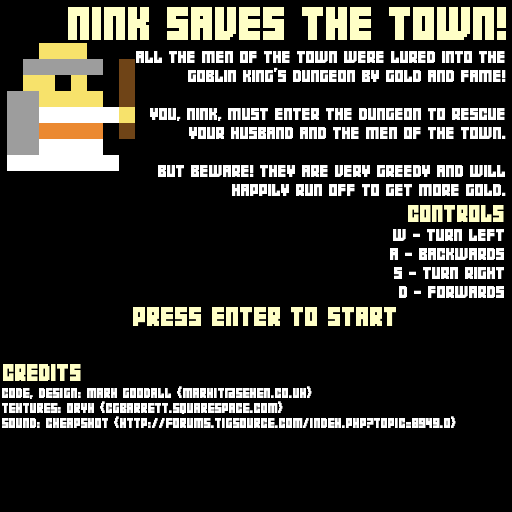
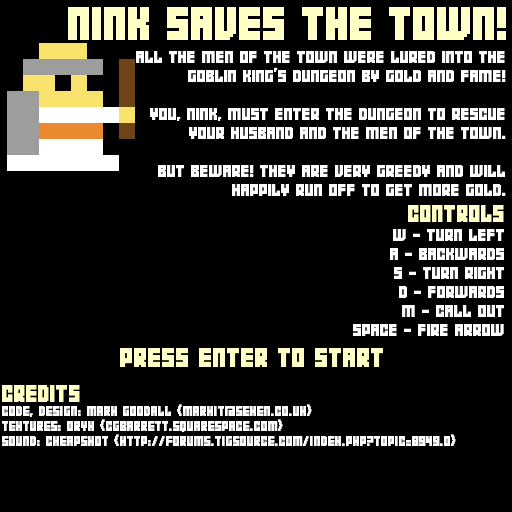
Updated controls, todo, repulsor bug, runspeed

Changed region(s): [[0.0, 0.6875, 0.9062, 0.875], [0.2188, 0.5938, 1.0, 0.7188]]

diff --git a/app.py b/app.py
@@ -82,6 +82,7 @@ class Application(pyglet.window.Window):
 		self.goblin_death_sound = pyglet.media.StaticSource(pyglet.media.load('sound/goblin_death.wav'))
 		self.follow_sound = pyglet.media.StaticSource(pyglet.media.load('sound/follow.wav'))
 		
+		self.scale = 96/2
 		self.time = 0
 		self.game = 0
 		self.camera = Matrix()
@@ -169,7 +170,7 @@ class Application(pyglet.window.Window):
 		# Datapoints
 		points = csv.reader(open('map/'+map_name+'.txt', 'rb'), delimiter=',')
 		for row in points:
-			point = ((float(row[1])/mapimg.width * 96*2) - 96, (float(row[2])/mapimg.width * 96*2) - 96)
+			point = (((float(row[1])+0.5)/mapimg.width * self.scale*2) - self.scale, ((float(row[2])-0.5)/mapimg.width * self.scale*2) - self.scale)
 			if row[0] == 'start':
 				self.start_point = Vector(point[0], 0, point[1])
 				self.player = self.create_protagonist(self.walls.collisionMap, point)
@@ -219,7 +220,7 @@ class Application(pyglet.window.Window):
 		ttex = Texture(tiles.width, tiles.height, unit=GL_TEXTURE1, data=tiles.get_data('RGBA', tiles.width*4))
 		tdim = Vector(tiles.width/8, tiles.height/8, 64-8)
 		
-		g = Ground(gtex, ttex, tdim, Vector(gmap.width, gmap.height, 0), Vector(-96, -96, 0), Vector(96, 96, 0))
+		g = Ground(gtex, ttex, tdim, Vector(gmap.width, gmap.height, 0), Vector(-self.scale, -self.scale, 0), Vector(self.scale, self.scale, 0))
 		return g
 		
 	def create_walls(self, mapimg):
@@ -229,7 +230,7 @@ class Application(pyglet.window.Window):
 		ttex = Texture(tiles.width, tiles.height, unit=GL_TEXTURE1, data=tiles.get_data('RGBA', tiles.width*4))
 		tdim = Vector(tiles.width/8, tiles.height/8, 64-8)
 		
-		w = Walls(gtex, ttex, tdim, Vector(gmap.width, gmap.height, 0), Vector(-96, -96, 0), Vector(96, 96, 0))
+		w = Walls(gtex, ttex, tdim, Vector(gmap.width, gmap.height, 0), Vector(-self.scale, -self.scale, 0), Vector(self.scale, self.scale, 0))
 		return w
 		
 	def create_protagonist(self, collisionMap, position):
@@ -264,16 +265,13 @@ class Application(pyglet.window.Window):
 				if not i.update(delta, self):
 					arrow_delete.append(i)
 			
-			for i in arrow_delete:
-				self.arrows.remove(i)
+			map(self.arrows.remove, arrow_delete)
 			
 			# Update friends
-			for i in self.friendly:
-				i.update(delta, self)
+			map(lambda i : i.update(delta, self), self.friendly)
 				
 			# Update enemy
-			for i in self.enemy:
-				i.update(delta, self)
+			map(lambda i : i.update(delta, self), self.enemy)
 				
 			# Collision Test
 			self.test_arrows()
@@ -322,10 +320,10 @@ class Application(pyglet.window.Window):
 					hit_arrows.append(a)
 					self.goblin_death_sound.play()
 					break
-		for i in hit_enemies:
-			self.enemy.remove(i)
-		for i in hit_arrows:
-			self.arrows.remove(i)
+		remove = self.enemy.remove
+		map(remove, hit_enemies)
+		remove = self.arrows.remove
+		map(remove, hit_arrows)
 	
 	def on_draw(self):
 		self.clear()
@@ -432,5 +430,5 @@ class Application(pyglet.window.Window):
 		return pyglet.event.EVENT_HANDLED
 
 if __name__ == '__main__':
-	window = Application('ground4')
+	window = Application('ground5')
 	pyglet.app.run()

diff --git a/friendly.py b/friendly.py
@@ -13,10 +13,12 @@ class Friendly(Protagonist):
 		self.pokeTimer-=delta
 		
 		# Repel away from other friends
-		for i in state.friendly:
-			distance = self.position - i.position
-			if distance.len() < 1.0:
-				self.position = self.position + (distance*0.1)
+		if (self.position - state.player.position).len() < 15:
+			for i in state.friendly:
+				distance = self.position - i.position
+				if distance.len() < 1.0:
+					if not self.collisionMap.collision(self.position + (distance*0.1), self.x/4):
+						self.position = self.position + (distance*0.1)
 		
 		uMoved = False
 		
@@ -35,30 +37,31 @@ class Friendly(Protagonist):
 					break
 					
 		# Kill the bad guys
-		for i in state.enemy:
-			distance = i.position - self.position
+		if (self.position - state.player.position).len() < 15:
+			for i in state.enemy:
+				distance = i.position - self.position
 			
-			if self.husband:
-				if distance.len() < 4.0 and self.within(state.player.position):
-					self.point(-distance.toAngle() + 0.25)
-					state.fire_arrow(self)
-					uMoved = True
-					break
-			else:
-				if distance.len() < 1.0:
-					self.point(-distance.toAngle() + 0.25)
-					state.fire_arrow(self)
-					uMoved = True
-					break
+				if self.husband:
+					if distance.len() < 4.0 and self.within(state.player.position):
+						self.point(-distance.toAngle() + 0.25)
+						state.fire_arrow(self)
+						uMoved = True
+						break
+				else:
+					if distance.len() < 1.0:
+						self.point(-distance.toAngle() + 0.25)
+						state.fire_arrow(self)
+						uMoved = True
+						break
 		
-		# Follow the girl
-		distance = state.player.position - self.position
-		if (not uMoved) and distance.len() < 5.0 and self.within(state.player.position):
-			# find the rotation between self and player
-			self.point(-distance.toAngle() + 0.25)
-			if distance.len() > 2.0:
-				self.move(Vector(2.0, 0, 0)*delta)
-		super(Friendly, self).update(delta, state)
+			# Follow the girl
+			distance = state.player.position - self.position
+			if (not uMoved) and distance.len() < 5.0 and self.within(state.player.position):
+				# find the rotation between self and player
+				self.point(-distance.toAngle() + 0.25)
+				if distance.len() > 2.0:
+					self.move(Vector(2.0, 0, 0)*delta)
+			super(Friendly, self).update(delta, state)
 		
 	def poked(self):
 		self.pokeTimer = 4.0

diff --git a/genMap.py b/genMap.py
@@ -42,10 +42,10 @@ def dist(p1, p2):
 class Application(pyglet.window.Window):
 	def __init__(self):
 		super(Application, self).__init__(resizable=True)
-		self.mapSize = 128
+		self.mapSize = 64
 		self.mapTexture = Texture(self.mapSize, self.mapSize, data=[0,0,0,255]*(self.mapSize*self.mapSize))
 		
-		self.probContinue = 0.82
+		self.probContinue = 0.75
 		self.minSquares = 10
 		
 		# keep away from start and friends (and gold)
@@ -55,11 +55,11 @@ class Application(pyglet.window.Window):
 		self.husband_distance = 30
 		
 		# probability of placement
-		self.prob_goblin = 0.02
-		self.prob_friend = 0.02
-		self.prob_gold = 0.02
-		self.prob_king = 0.005
-		self.prob_husband = 0.005
+		self.prob_goblin = 0.03
+		self.prob_friend = 0.03
+		self.prob_gold = 0.03
+		self.prob_king = 0.008
+		self.prob_husband = 0.008
 		
 		self.new_map()
 		

diff --git a/enemy.py b/enemy.py
@@ -9,16 +9,17 @@ class Enemy(Protagonist):
 	def update(self, delta, state):
 		self.cooldown -= delta
 		
-		attacked = False
-		for i in state.friendly:
-			attacked = self.attack_person(delta, i, state)
-			if attacked:
-				break
+		if (self.position - state.player.position).len() < 15:
+			attacked = False
+			for i in state.friendly:
+				attacked = self.attack_person(delta, i, state)
+				if attacked:
+					break
 				
-		if not attacked:
-			self.attack_person(delta, state.player, state)
+			if not attacked:
+				self.attack_person(delta, state.player, state)
 			
-		super(Enemy, self).update(delta, state)
+			super(Enemy, self).update(delta, state)
 		
 	def attack_person(self, delta, person, state):
 		distance = person.position - self.position
